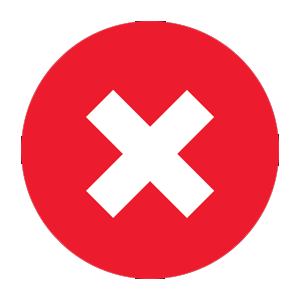
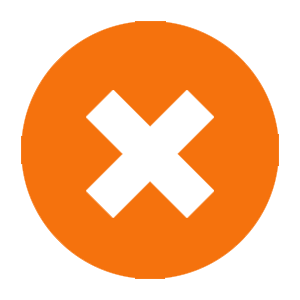
New color palette + added indicator controls

diff --git a/PVSystem/IndicatorControl.qml b/PVSystem/IndicatorControl.qml
@@ -27,20 +27,73 @@ import "basics.js" as Basics
 
 Item {
 
-    property int h
     property int w
-    property int posx
-    property int posy
-    property int posangle: 0
-    property int watts: 0
-
+    property int mode: 0
 
     Image{
-        id: ppointer
-        source: "images/pointer.png"
-        x: posx
-        y: posy
-        transform: Rotation{origin.x: 11; origin.y: 55; angle: posangle}
+        id: powerToggle
+        source:{
+
+            if(mode == 0){
+                "/images/power_pressed.png"
+            }
+            else{
+                "/images/power.png"
+            }
+
+        }
+
+        width: w
+        height: width
+        x: w*1.5/2 - width/2
+        MouseArea{
+            anchors.fill: parent
+            onPressed:{
+                mode = 0
+            }
+        }
+    }
+    Image{
+        id: energyToggle
+        source:{
+
+            if(mode == 1){
+                "/images/energy_pressed.png"
+            }
+            else{
+                "/images/energy.png"
+            }
+
+        }
+        width: w
+        height: width
+        y: powerToggle.y + w
+        x: w*1.5/2 - width/2
+
+        MouseArea{
+            anchors.fill: parent
+            onPressed:{
+                mode = 1
+            }
+        }
+
+    }
+    Image{
+        id: refreshButton
+        source: "images/refresh.png"
+        width: w
+        height: width
+        y: energyToggle.y + w
+        x: w*1.5/2 - width/2
+
+    }
+
+    MouseArea{
+        anchors.fill: parent
+        onPressed:{
+            infoPage.updateValues()
+            infoPage.updateGraph()
+        }
     }
 
 

diff --git a/PVSystem/main.qml b/PVSystem/main.qml
@@ -103,7 +103,7 @@ ApplicationWindow {
         }
         //weekyl yield tab
         Rectangle{
-            id: weeklyYield
+            id: indicatorControls
             y: 45
             anchors.margins: 30
             anchors.right: parent.right
@@ -111,6 +111,10 @@ ApplicationWindow {
             anchors.rightMargin: 20
             width: centerStatus.width/2
             height: 360
+            IndicatorControl{
+                id: iControl
+                w: parent.width/1.5
+            }
         }
 
         //main indicator
@@ -133,13 +137,19 @@ ApplicationWindow {
                 Timer{
                     id: updatebar
                     repeat: true
-                    interval: 1500
+                    interval: 2000
                     running: true
                     //will get the past position and new position
                     onTriggered:{
 
-                        spinningIndicator.posangle = 360 * emonvars.getPosition()
-                        spinningIndicator.watts = emonvars.getValue(2)
+                        if(iControl.mode == 0){
+                            spinningIndicator.posangle = 360 * emonvars.getPosition()
+                            spinningIndicator.watts = emonvars.getValue(2)
+                        }
+                        else{
+                            spinningIndicator.posangle = 360 * emonvars.getConsumePosition(emonvars.getValue(1))
+                        }
+
                         //updating info values and graph
                         infoPage.updateValues()
                         infoPage.updateGraph()
